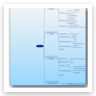
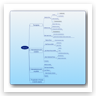
Only Version 3

diff --git a/index.html b/index.html
@@ -123,81 +123,41 @@ var slideHierarchy = [
 			title: "Version 3 outline",
 			uuid: "7BE8CBAB-E5A1-4707-AC16-BCA4A332616D",
 			tags: [],
-			image: "Contents/Version%203%20outline-7be8cbab-e5a1-4707-ac16-bca4a332616d.png?nocache=659898061",
-			imageSize: { width: 1779.000000, height: 1487.000000 },
-			thumbnail: "Contents/Version%203%20outline-7be8cbab-e5a1-4707-ac16-bca4a332616d-Thumb.png?nocache=659898061",
+			image: "Contents/Version%203%20outline-7be8cbab-e5a1-4707-ac16-bca4a332616d.png?nocache=659898711",
+			imageSize: { width: 1779.000000, height: 1143.000000 },
+			thumbnail: "Contents/Version%203%20outline-7be8cbab-e5a1-4707-ac16-bca4a332616d-Thumb.png?nocache=659898711",
 			imagemap: [
 				{
 					href: "evernote:///view/8220413/s75/54c573b2-4f8c-4443-7988-7faff21f08bb/54c573b2-4f8c-4443-7988-7faff21f08bb/",
 					tags: [],
 					shape: "polygon",
-					coords: "1017,176 1310,176 1310,219 1017,219",
+					coords: "1182,238 1475,238 1475,281 1182,281",
 				},
 				{
 					href: "evernote:///view/8220413/s75/ec9ed4c8-ea46-337f-39b5-4d70b00c3848/ec9ed4c8-ea46-337f-39b5-4d70b00c3848/",
 					tags: [],
 					shape: "polygon",
-					coords: "996,70 1213,70 1213,99 996,99",
+					coords: "1161,132 1378,132 1378,161 1161,161",
 				},
 				{
 					href: "evernote:///view/8220413/s75/d9f2fda2-52cd-dad5-c7ac-ee468825dd35/d9f2fda2-52cd-dad5-c7ac-ee468825dd35/",
 					tags: [],
 					shape: "polygon",
-					coords: "931,-6 1103,-6 1103,22 931,22",
+					coords: "1096,55 1268,55 1268,84 1096,84",
 				},
 				{
 					href: "evernote:///view/8220413/s75/97f9b054-43e2-a858-c082-8525fbe29a37/97f9b054-43e2-a858-c082-8525fbe29a37/",
 					tags: [],
 					shape: "polygon",
-					coords: "813,258 1001,258 1001,285 813,285",
+					coords: "978,320 1166,320 1166,347 978,347",
 				},
 				{
 					href: "evernote:///view/8220413/s75/8e7f6aff-37ea-4cae-bd25-320cae1d7fe4/8e7f6aff-37ea-4cae-bd25-320cae1d7fe4/",
 					tags: [],
 					shape: "polygon",
-					coords: "812,108 1039,108 1039,137 812,137",
+					coords: "977,170 1204,170 1204,199 977,199",
 				}
 			]
-		},
-		{
-			title: "Version 2 outline",
-			uuid: "928546F3-02EC-437A-A672-E8276496FB43",
-			tags: [],
-			image: "Contents/Version%202%20outline-928546f3-02ec-437a-a672-e8276496fb43.png?nocache=659898061",
-			imageSize: { width: 1536.000000, height: 1214.000000 },
-			thumbnail: "Contents/Version%202%20outline-928546f3-02ec-437a-a672-e8276496fb43-Thumb.png?nocache=659898061",
-			imagemap: [
-				{
-					href: "evernote:///view/8220413/s75/54c573b2-4f8c-4443-7988-7faff21f08bb/54c573b2-4f8c-4443-7988-7faff21f08bb/",
-					tags: [],
-					shape: "polygon",
-					coords: "480,92 1045,92 1045,121 480,121",
-				}
-			]
-		},
-		{
-			title: "Version 1 outline",
-			uuid: "E95447F1-A422-4B7B-A335-6684B2AB788A",
-			tags: [],
-			image: "Contents/Version%201%20outline-e95447f1-a422-4b7b-a335-6684b2ab788a.png?nocache=659898061",
-			imageSize: { width: 1536.000000, height: 1214.000000 },
-			thumbnail: "Contents/Version%201%20outline-e95447f1-a422-4b7b-a335-6684b2ab788a-Thumb.png?nocache=659898061",
-			imagemap: [
-				{
-					href: "evernote:///view/8220413/s75/54c573b2-4f8c-4443-7988-7faff21f08bb/54c573b2-4f8c-4443-7988-7faff21f08bb/",
-					tags: [],
-					shape: "polygon",
-					coords: "480,92 1045,92 1045,121 480,121",
-				}
-			]
-		},
-		{
-			title: "Version 0 concepts",
-			uuid: "0B7B5358-A28D-47D1-A8E7-AB86E88FCA28",
-			tags: [],
-			image: "Contents/Version%200%20concepts-0b7b5358-a28d-47d1-a8e7-ab86e88fca28.png?nocache=659898061",
-			imageSize: { width: 848.000000, height: 544.000000 },
-			thumbnail: "Contents/Version%200%20concepts-0b7b5358-a28d-47d1-a8e7-ab86e88fca28-Thumb.png?nocache=659898061"
 		}
 	]
 ;
